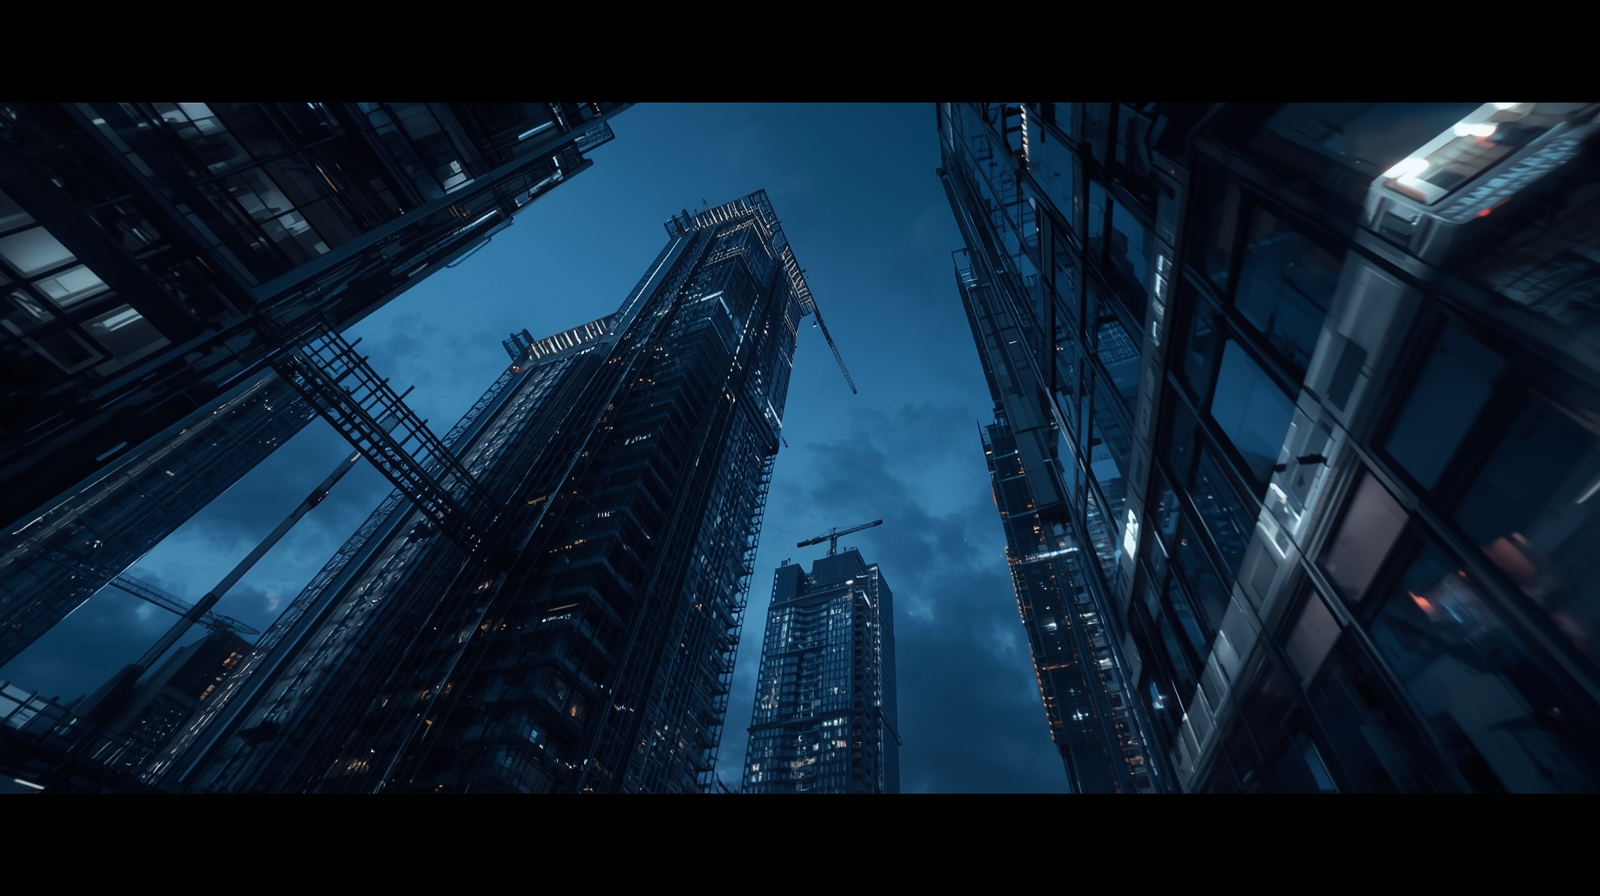
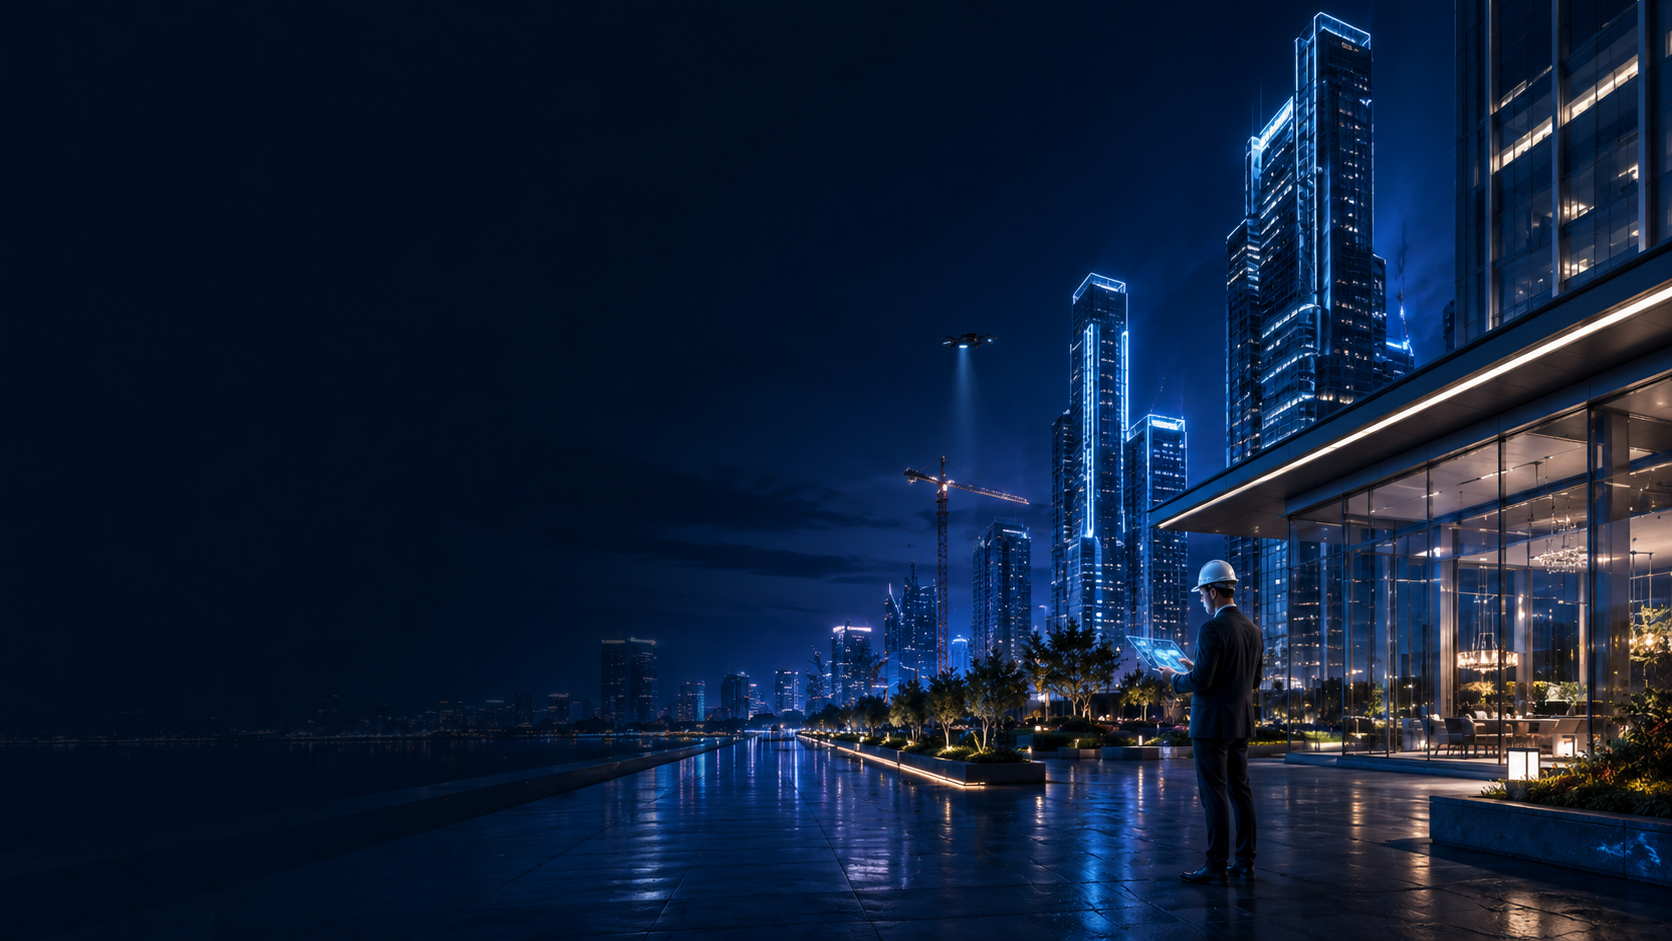
Add phone login UI and remember phone

diff --git a/src/components/CountryCodeSelect.tsx b/src/components/CountryCodeSelect.tsx
@@ -1,9 +1,13 @@
+import { useEffect, useRef, useState } from "react";
+import { MdOutlineArrowDropDownCircle } from "react-icons/md";
+
 type CountryCodeSelectProps = {
   value: string;
   onChange: (value: string) => void;
   id?: string;
   label?: string;
   className?: string;
+  buttonClassName?: string;
 };
 
 const countryCodes = [
@@ -25,25 +29,88 @@ export function CountryCodeSelect({
   id = "countryCode",
   label = "Country code",
   className = "",
+  buttonClassName = "h-12",
 }: CountryCodeSelectProps) {
+  const [open, setOpen] = useState(false);
+  const wrapperRef = useRef<HTMLDivElement | null>(null);
+
+  const selected = countryCodes.find((country) => country.value === value) ?? countryCodes[0];
+
+  useEffect(() => {
+    function handleClickOutside(event: MouseEvent) {
+      if (!wrapperRef.current?.contains(event.target as Node)) {
+        setOpen(false);
+      }
+    }
+
+    function handleEscape(event: KeyboardEvent) {
+      if (event.key === "Escape") {
+        setOpen(false);
+      }
+    }
+
+    document.addEventListener("mousedown", handleClickOutside);
+    document.addEventListener("keydown", handleEscape);
+
+    return () => {
+      document.removeEventListener("mousedown", handleClickOutside);
+      document.removeEventListener("keydown", handleEscape);
+    };
+  }, []);
+
   return (
-    <div className={["flex flex-col gap-1.5", className].join(" ")}>
+    <div ref={wrapperRef} className={["relative flex flex-col gap-1.5", className].join(" ")}>
       <label htmlFor={id} className="text-[15px] font-bold text-gray-900">
         {label}
       </label>
 
-      <select
+      <button
         id={id}
-        value={value}
-        onChange={(event) => onChange(event.target.value)}
-        className="h-12 w-full rounded-[5px] border border-[#b9d3ff] bg-white px-4 text-[16px] font-medium text-gray-900 shadow-sm outline-none transition focus:border-[#6ea8ff] focus:ring-2 focus:ring-[#d9eaff]"
+        type="button"
+        onClick={() => setOpen((current) => !current)}
+        className={[
+          "flex w-full items-center justify-between rounded-[5px]",
+          "border border-[#b9d3ff] bg-white px-4 text-left",
+          "text-[16px] font-medium text-gray-900 shadow-sm",
+          "outline-none transition",
+          buttonClassName,
+          open ? "border-[#6ea8ff] ring-2 ring-[#d9eaff]" : "hover:border-[#8bbcff]",
+        ].join(" ")}
       >
-        {countryCodes.map((country, index) => (
-          <option key={`${country.label}-${index}`} value={country.value}>
-            {country.label}
-          </option>
-        ))}
-      </select>
+        <span>{selected.label}</span>
+
+        <span className="flex h-7 w-7 items-center justify-center text-gray-800">
+          <MdOutlineArrowDropDownCircle
+            size={24}
+            className={["transition-transform duration-200", open ? "rotate-180" : "rotate-0"].join(" ")}
+          />
+        </span>
+      </button>
+
+      {open ? (
+        <div className="absolute left-0 right-0 top-full z-50 mt-2 max-h-64 overflow-y-auto rounded-md border border-gray-200 bg-white p-1.5 shadow-xl">
+          {countryCodes.map((country, index) => {
+            const isSelected = country.value === value && country.label === selected.label;
+
+            return (
+              <button
+                key={`${country.label}-${index}`}
+                type="button"
+                onClick={() => {
+                  onChange(country.value);
+                  setOpen(false);
+                }}
+                className={[
+                  "w-full rounded-sm px-3.5 py-2.5 text-left text-[15px] font-medium transition",
+                  isSelected ? "bg-[#d7e8ff] text-[#163d6d]" : "text-gray-800 hover:bg-gray-100",
+                ].join(" ")}
+              >
+                {country.label}
+              </button>
+            );
+          })}
+        </div>
+      ) : null}
     </div>
   );
 }

diff --git a/src/pages/Login.tsx b/src/pages/Login.tsx
@@ -1,10 +1,14 @@
-import { useState } from "react";
+import { useEffect, useState } from "react";
 import type { FormEvent } from "react";
 import { Link, useNavigate, useSearchParams } from "react-router-dom";
 import { FiEye, FiEyeOff } from "react-icons/fi";
 import { useAuth } from "@/auth/useAuth";
 import { CountryCodeSelect } from "@/components/CountryCodeSelect";
 import signinImg from "@/assets/signin.jpg";
+
+const REMEMBER_COUNTRY_CODE_KEY = "projectbt.login.countryCode";
+const REMEMBER_PHONE_KEY = "projectbt.login.phone";
+const REMEMBER_ENABLED_KEY = "projectbt.login.remember";
 
 export default function Login() {
   const { login } = useAuth();
@@ -18,6 +22,21 @@ export default function Login() {
   const [err, setErr] = useState("");
   const [isSubmitting, setIsSubmitting] = useState(false);
   const [showPassword, setShowPassword] = useState(false);
+  const [rememberMe, setRememberMe] = useState(false);
+
+  useEffect(() => {
+    if (typeof window === "undefined") return;
+
+    const remembered = window.localStorage.getItem(REMEMBER_ENABLED_KEY) === "true";
+    if (!remembered) return;
+
+    const savedCountryCode = window.localStorage.getItem(REMEMBER_COUNTRY_CODE_KEY);
+    const savedPhone = window.localStorage.getItem(REMEMBER_PHONE_KEY);
+
+    setRememberMe(true);
+    setCountryCode(savedCountryCode || "+1");
+    setPhone(savedPhone || "");
+  }, []);
 
   async function handleSubmit(e: FormEvent<HTMLFormElement>) {
     e.preventDefault();
@@ -25,7 +44,18 @@ export default function Login() {
     setIsSubmitting(true);
 
     try {
-      await login(countryCode, phone.trim(), password);
+      const trimmedPhone = phone.trim();
+      await login(countryCode, trimmedPhone, password);
+
+      if (rememberMe) {
+        window.localStorage.setItem(REMEMBER_ENABLED_KEY, "true");
+        window.localStorage.setItem(REMEMBER_COUNTRY_CODE_KEY, countryCode);
+        window.localStorage.setItem(REMEMBER_PHONE_KEY, trimmedPhone);
+      } else {
+        window.localStorage.removeItem(REMEMBER_ENABLED_KEY);
+        window.localStorage.removeItem(REMEMBER_COUNTRY_CODE_KEY);
+        window.localStorage.removeItem(REMEMBER_PHONE_KEY);
+      }
 
       const redirectTo = params.get("redirectTo") || "/app";
       nav(redirectTo);
@@ -44,22 +74,22 @@ export default function Login() {
           alt="Signin background"
           className="h-full w-full object-cover"
         />
-        <div className="absolute inset-0 bg-black/55" />
+        <div className="absolute inset-0 " />
         <div className="absolute inset-0 bg-linear-to-r from-black/50 via-black/20 to-transparent" />
       </div>
 
       <section className="relative z-10 flex min-h-screen w-full items-center justify-center px-4 py-8 lg:justify-start lg:px-20">
-        <div className="w-full max-w-155 rounded-[18px] bg-white/95 px-10 py-10 shadow-2xl backdrop-blur-md max-sm:px-5 max-sm:py-6">
-          <div className="mb-8 text-center">
-            <h1 className="text-[38px] font-extrabold leading-tight text-gray-950 max-sm:text-3xl">
+        <div className="w-full max-w-[520px] rounded-[18px] bg-white/95 px-7 py-7 shadow-2xl backdrop-blur-md max-sm:px-4 max-sm:py-5">
+          <div className="mb-5 text-center">
+            <h1 className="text-[32px] font-extrabold leading-tight text-gray-950 max-sm:text-3xl">
               Bienvenue
             </h1>
 
-            <p className="mt-3 text-[17px] font-medium text-gray-500 max-sm:text-sm">
+            <p className="mt-2 text-[17px] font-medium text-gray-500 max-sm:text-sm">
               Connectez-vous à votre espace client.
             </p>
 
-            <p className="mt-5 text-[15px] font-medium text-gray-600">
+            <p className="mt-3 text-[15px] font-medium text-gray-600">
               Vous n’avez pas encore de compte ?{" "}
               <Link
                 to="/signup"
@@ -76,12 +106,13 @@ export default function Login() {
             </div>
           ) : null}
 
-          <form onSubmit={handleSubmit} className="flex flex-col gap-4">
+          <form onSubmit={handleSubmit} className="flex flex-col gap-3">
             <div className="grid grid-cols-[220px_1fr] gap-4 max-sm:grid-cols-1">
               <CountryCodeSelect
                 value={countryCode}
                 onChange={setCountryCode}
                 label="Country code"
+                buttonClassName="h-11"
               />
 
               <div className="flex flex-col gap-1.5">
@@ -100,7 +131,7 @@ export default function Login() {
                   onChange={(e) => setPhone(e.target.value)}
                   required
                   autoComplete="tel-national"
-                  className="h-12 w-full rounded-[5px] border border-[#b9d3ff] bg-white px-4 text-[16px] font-medium text-gray-900 shadow-sm outline-none transition placeholder:text-gray-400 focus:border-[#6ea8ff] focus:ring-2 focus:ring-[#d9eaff]"
+                  className="h-11 w-full rounded-[5px] border border-[#b9d3ff] bg-white px-4 text-[16px] font-medium text-gray-900 shadow-sm outline-none transition placeholder:text-gray-400 focus:border-[#6ea8ff] focus:ring-2 focus:ring-[#d9eaff]"
                 />
               </div>
             </div>
@@ -122,7 +153,7 @@ export default function Login() {
                   onChange={(e) => setPassword(e.target.value)}
                   required
                   autoComplete="current-password"
-                  className="h-12 w-full rounded-[5px] border border-[#b9d3ff] bg-white px-4 pr-12 text-[16px] font-medium text-gray-900 shadow-sm outline-none transition placeholder:text-gray-400 focus:border-[#6ea8ff] focus:ring-2 focus:ring-[#d9eaff]"
+                  className="h-11 w-full rounded-[5px] border border-[#b9d3ff] bg-white px-4 pr-12 text-[16px] font-medium text-gray-900 shadow-sm outline-none transition placeholder:text-gray-400 focus:border-[#6ea8ff] focus:ring-2 focus:ring-[#d9eaff]"
                 />
 
                 <button
@@ -144,6 +175,8 @@ export default function Login() {
               <label className="inline-flex cursor-pointer items-center text-gray-600">
                 <input
                   type="checkbox"
+                  checked={rememberMe}
+                  onChange={(e) => setRememberMe(e.target.checked)}
                   className="mr-2 h-4 w-4 rounded border-gray-300"
                 />
                 <span>Se souvenir de moi</span>
@@ -160,7 +193,7 @@ export default function Login() {
             <button
               type="submit"
               disabled={isSubmitting}
-              className="mt-3 h-13 w-full rounded-md bg-[#173d6b] text-[17px] font-bold text-white shadow-lg transition hover:bg-[#0f2f55] disabled:cursor-not-allowed disabled:opacity-60"
+              className="mt-3 h-12 w-full rounded-md bg-[#173d6b] text-[17px] font-bold text-white shadow-lg transition hover:bg-[#0f2f55] disabled:cursor-not-allowed disabled:opacity-60"
             >
               {isSubmitting ? "Connexion..." : "Se connecter"}
             </button>

diff --git a/src/pages/Signup.tsx b/src/pages/Signup.tsx
@@ -37,7 +37,7 @@ function FormInput({
         id={id}
         {...props}
         className={[
-          "h-12 w-full rounded-[5px] border border-[#b9d3ff] bg-white px-4",
+          "h-11 w-full rounded-[5px] border border-[#b9d3ff] bg-white px-4",
           "text-[16px] font-medium text-gray-900 shadow-sm",
           "placeholder:text-gray-400",
           "outline-none transition",
@@ -95,7 +95,7 @@ function AccountTypeDropdown({
         type="button"
         onClick={() => setOpen((current) => !current)}
         className={[
-          "flex h-12 w-full items-center justify-between rounded-[5px]",
+          "flex h-11 w-full items-center justify-between rounded-[5px]",
           "border border-[#b9d3ff] bg-white px-4 text-left",
           "text-[16px] font-medium text-gray-900 shadow-sm",
           "outline-none transition",
@@ -201,22 +201,22 @@ export default function Signup() {
           alt="Signup background"
           className="h-full w-full object-cover"
         />
-        <div className="absolute inset-0 bg-black/55" />
+        <div className="absolute inset-0" />
         <div className="absolute inset-0 bg-linear-to-r from-black/50 via-black/20 to-transparent" />
       </div>
 
       <section className="relative z-10 flex min-h-screen w-full items-center justify-center px-4 py-8 lg:justify-start lg:px-20">
-        <div className="w-full max-w-155 rounded-[18px] bg-white/95 px-10 py-9 shadow-2xl backdrop-blur-md max-sm:px-5 max-sm:py-6">
-          <div className="mb-7 text-center">
-            <h1 className="text-[38px] font-extrabold leading-tight text-gray-950 max-sm:text-3xl">
+        <div className="w-full max-w-[520px] rounded-[18px] bg-white/95 px-7 py-7 shadow-2xl backdrop-blur-md max-sm:px-4 max-sm:py-5">
+          <div className="mb-5 text-center">
+            <h1 className="text-[32px] font-extrabold leading-tight text-gray-950 max-sm:text-3xl">
               Bienvenue Client
             </h1>
 
-            <p className="mt-3 text-[17px] font-medium text-gray-500 max-sm:text-sm">
+            <p className="mt-2 text-[17px] font-medium text-gray-500 max-sm:text-sm">
               Créez votre compte pour accéder à votre espace client.
             </p>
 
-            <p className="mt-5 text-[15px] font-medium text-gray-600">
+            <p className="mt-3 text-[15px] font-medium text-gray-600">
               Vous avez déjà un compte ?{" "}
               <Link
                 to="/login"
@@ -233,7 +233,7 @@ export default function Signup() {
             </div>
           ) : null}
 
-          <form onSubmit={handleSubmit} className="flex flex-col gap-4">
+          <form onSubmit={handleSubmit} className="flex flex-col gap-3">
             <AccountTypeDropdown
               value={accountType}
               onChange={setAccountType}
@@ -322,7 +322,7 @@ export default function Signup() {
                   onChange={(e) => setPassword(e.target.value)}
                   required
                   autoComplete="new-password"
-                  className="h-12 w-full rounded-[5px] border border-[#b9d3ff] bg-white px-4 pr-12 text-[16px] font-medium text-gray-900 shadow-sm outline-none transition placeholder:text-gray-400 focus:border-[#6ea8ff] focus:ring-2 focus:ring-[#d9eaff]"
+                  className="h-11 w-full rounded-[5px] border border-[#b9d3ff] bg-white px-4 pr-12 text-[16px] font-medium text-gray-900 shadow-sm outline-none transition placeholder:text-gray-400 focus:border-[#6ea8ff] focus:ring-2 focus:ring-[#d9eaff]"
                 />
 
                 <button
@@ -343,7 +343,7 @@ export default function Signup() {
             <button
               type="submit"
               disabled={isSubmitting}
-              className="mt-3 h-13 w-full rounded-md bg-[#173d6b] text-[17px] font-bold text-white shadow-lg transition hover:bg-[#0f2f55] disabled:cursor-not-allowed disabled:opacity-60"
+              className="mt-3 h-12 w-full rounded-md bg-[#173d6b] text-[17px] font-bold text-white shadow-lg transition hover:bg-[#0f2f55] disabled:cursor-not-allowed disabled:opacity-60"
             >
               {isSubmitting ? "Création du compte..." : "Créer un compte"}
             </button>